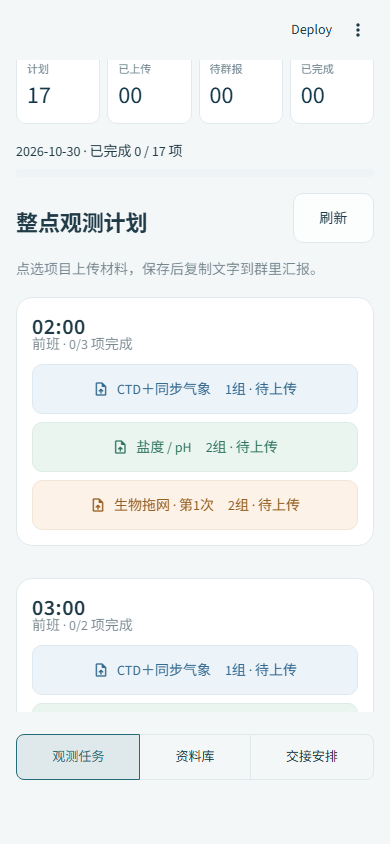
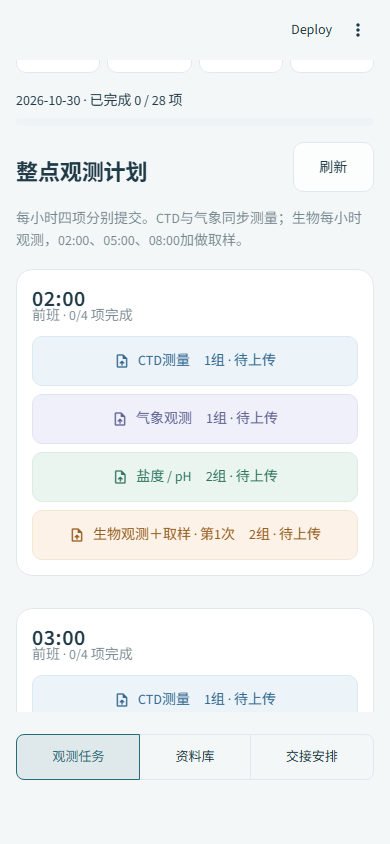
Separate hourly CTD and weather uploads and add hourly biology observations

diff --git a/assets/style.css b/assets/style.css
@@ -22,6 +22,7 @@
 [class*="st-key-task_"] button{min-height:48px;justify-content:flex-start;padding:11px 12px;border-radius:10px;}
 [class*="st-key-task_"] button p{white-space:normal!important;text-overflow:clip!important;overflow-wrap:anywhere;line-height:1.5;text-align:left;font-size:14px;}
 [class*="st-key-task_ctd_"] button{background:#edf4f9;color:#356a90;border-color:#dce9f2;}
+[class*="st-key-task_weather_"] button{background:#eff0fa;color:#5f6492;border-color:#e1e3f2;}
 [class*="st-key-task_water_"] button{background:#ebf5f0;color:#2d735f;border-color:#dcece4;}
 [class*="st-key-task_trawl_"] button{background:#fcf2e7;color:#966023;border-color:#f4e6d6;}
 [class*="st-key-task_"] button:hover{filter:brightness(.97);border-color:currentColor;}

diff --git a/streamlit_app.py b/streamlit_app.py
@@ -83,13 +83,19 @@ def upload_dialog(task_id, observation_date):
         c1, c2 = st.columns(2)
         actual = c1.time_input("实际完成时间", value=time(task.hour), step=60)
         station = c2.text_input("站位 / 样品编号（选填）", max_chars=120)
-        if task.project == "ctd":
-            st.caption("CTD与气象同步测量，两类材料都需要提交。合并文件可分别选择同一份。")
-            ctd = st.file_uploader("CTD原始数据与记录", accept_multiple_files=True, max_upload_size=100, key=f"ctd_files_{nonce}")
-            weather = st.file_uploader("同步气象数据与记录", accept_multiple_files=True, max_upload_size=100, key=f"weather_files_{nonce}")
-            uploads = [(file, "ctd") for file in ctd] + [(file, "weather") for file in weather]
+        if task.project in {"ctd", "weather"}:
+            st.caption("CTD与气象在同一整点同步测量，材料通过各自入口分别提交。")
+            label = "CTD原始数据与记录" if task.project == "ctd" else "气象观测数据与记录"
+            uploads = [(file, task.project) for file in st.file_uploader(label, accept_multiple_files=True, max_upload_size=100, key=f"{task.project}_files_{nonce}")]
         else:
-            label = "盐度 / pH测量数据与记录" if task.project == "water" else f"第{task.round}次拖网数据、样品记录与照片"
+            if task.project == "water":
+                label = "盐度 / pH测量数据与记录"
+            elif task.requires_sampling:
+                st.caption(f"本时刻需要生物观测和第{task.round}次拖网取样，完成后合并为本小时的一次提交。")
+                label = "生物观测、拖网取样记录与照片"
+            else:
+                st.caption("本时刻仅做生物观测，无需取样；仍需提交本小时的观测材料。")
+                label = "本小时生物观测记录与照片"
             uploads = [(file, "data") for file in st.file_uploader(label, accept_multiple_files=True, max_upload_size=100, key=f"data_files_{nonce}")]
         notes = st.text_area("备注（选填）", max_chars=2000, placeholder="异常情况、样品说明或需要交接的事项")
         st.caption("支持仪器原始文件、表格、文档、照片和压缩包。每次最多20个，单个100MB，总计250MB。")
@@ -125,7 +131,7 @@ st.html(f"""<section class="hero" style="{photo_style}">
     <div class="eyebrow">DONG FANG HONG 2 &nbsp; / &nbsp; FIELD OBSERVATIONS</div>
     <h1>同舟探海，向海求知。</h1>
     <p>D海研学队 · 东方红2观测协作站</p>
-    <div class="hero-tags"><span>02:00 — 08:00</span><span>4个小组</span><span>17项作业</span></div>
+    <div class="hero-tags"><span>02:00 — 08:00</span><span>4个小组</span><span>{len(TASKS)}项作业</span></div>
     </section>""")
 
 with st.container(key="filters"):
@@ -163,7 +169,7 @@ if view == "观测任务":
         title.subheader("整点观测计划")
         if refresh.button("刷新", key="refresh_progress", width="stretch", wrap=True):
             st.rerun()
-    st.caption("点选项目上传材料，保存后复制文字到群里汇报。")
+    st.caption("每小时四项分别提交。CTD与气象同步测量；生物每小时观测，02:00、05:00、08:00加做取样。")
     hours = sorted({task.hour for task in tasks})
     with st.container(key="plan"):
         for offset in range(0, len(hours), 3):
@@ -177,7 +183,8 @@ if view == "观测任务":
                     for task in hour_tasks:
                         status = task_status(latest.get(task.id))
                         icon = {"待上传": ":material/upload_file:", "待群报": ":material/chat_bubble:", "已完成": ":material/check_circle:"}[status]
-                        title = {"ctd": "CTD＋同步气象", "water": "盐度 / pH", "trawl": f"生物拖网 · 第{task.round}次"}[task.project]
+                        biology_title = f"生物观测＋取样 · 第{task.round}次" if task.requires_sampling else "生物观测（不取样）"
+                        title = {"ctd": "CTD测量", "weather": "气象观测", "water": "盐度 / pH", "trawl": biology_title}[task.project]
                         st.button(f"{title}　{task.group}组 · {status}", key=f"task_{task.id}", icon=icon,
                             width="stretch", wrap=True, on_click=open_task, args=(task.id,))
     st.caption("05:20—05:30交接：1组→3组，2组→4组。08:00完成最后一轮测量和第三次拖网。")
@@ -247,7 +254,7 @@ else:
             st.markdown("、".join(info["members"]))
     st.info("05:20开始交接，05:30交接完成。1组交给3组；2组交给4组。05:00任务由前班完成，06:00起由后班负责。", icon=":material/swap_horiz:")
     st.markdown("**交接内容：** 仪器状态、材料保存、样品编号、异常情况和未完成事项。")
-    st.caption("频次：CTD＋同步气象7轮；盐度/pH7轮；生物拖网02:00、05:00、08:00各1次。")
+    st.caption("CTD、气象、盐度/pH、生物观测各7轮，均每小时分别提交。生物拖网取样在02:00、05:00、08:00，共3次。")
 
 with st.expander("材料保存位置"):
     st.caption(store.storage_label)

diff --git a/tests/test_workflow.py b/tests/test_workflow.py
@@ -28,9 +28,12 @@ def submit(store, task_id="water_02", **changes):
 
 
 def test_confirmed_schedule():
-    assert len(TASKS) == 17
-    assert len({t.id for t in TASKS}) == 17
-    assert [t.hour for t in TASKS if t.project == "trawl"] == [2, 5, 8]
+    assert len(TASKS) == 28
+    assert len({t.id for t in TASKS}) == 28
+    assert all(len([t for t in TASKS if t.project == project]) == 7 for project in ("ctd", "weather", "water", "trawl"))
+    assert [t.hour for t in TASKS if t.requires_sampling] == [2, 5, 8]
+    assert [t.round for t in TASKS if t.project == "trawl"] == [1, 0, 0, 2, 0, 0, 3]
+    assert all(TASK_BY_ID[f"weather_{h:02}"].group == TASK_BY_ID[f"ctd_{h:02}"].group for h in range(2, 9))
     assert [(TASK_BY_ID[f"ctd_{h:02}"].group, TASK_BY_ID[f"water_{h:02}"].group) for h in range(2, 9)] == [(1, 2)] * 4 + [(3, 4)] * 3
     assert sum(len(group["members"]) for group in GROUPS.values()) == 24
     assert all(t.hour not in (5.2, 5.3) for t in TASKS)
@@ -48,12 +51,24 @@ def test_upload_survives_new_connection_and_report_is_separate(store):
     assert store.latest("2026-10-31") == {}
 
 
-def test_ctd_requires_both_synchronous_materials(store):
-    with pytest.raises(ValueError, match="同时上传"):
-        submit(store, "ctd_02", files=[("cast.cnv", b"CTD", "ctd")])
+def test_ctd_and_weather_are_independent_submissions(store):
+    with pytest.raises(ValueError, match="单独"):
+        submit(store, "ctd_02", files=[("cast.cnv", b"CTD", "ctd"), ("气象.csv", b"weather", "weather")])
     assert store.list_records("2026-10-30") == []
-    row = submit(store, "ctd_02", files=[("cast.cnv", b"CTD", "ctd"), ("气象.csv", b"weather", "weather")])
-    assert len(row["files"]) == 2
+    ctd = submit(store, "ctd_02", files=[("cast.cnv", b"CTD", "ctd")])
+    assert set(store.latest("2026-10-30")) == {"ctd_02"}
+    weather = submit(store, "weather_02", files=[("气象.csv", b"weather", "weather")])
+    store.mark_reported(ctd["id"], "马刚")
+    assert task_status(store.get(ctd["id"])) == "已完成"
+    assert task_status(store.get(weather["id"])) == "待群报"
+    assert store.read_file(weather["files"][0]) == b"weather"
+
+
+def test_biology_observation_without_sampling_can_be_saved(store):
+    row = submit(store, "trawl_03", files=[("生物观测.txt", b"hourly observation", "data")])
+    assert "不取样" in report_text(row)
+    assert "第0次" not in report_text(row)
+    assert store.latest("2026-10-30")["trawl_03"]["id"] == row["id"]
 
 
 @pytest.mark.parametrize("files", [[], [("empty.csv", b"", "data")]])
@@ -119,13 +134,13 @@ def test_dashboard_filter_and_upload_form(tmp_path, monkeypatch):
     monkeypatch.setenv("MARINE_DATA_DIR", str(tmp_path / "ui"))
     app = AppTest.from_file(str(Path(__file__).parents[1] / "streamlit_app.py"), default_timeout=20).run()
     assert not app.exception
-    assert app.metric[0].value == "17"
+    assert app.metric[0].value == "28"
     assert any('class="intro-screen"' in item.value for item in app.html)
-    assert len([button for button in app.button if button.key and button.key.startswith("task_")]) == 17
+    assert len([button for button in app.button if button.key and button.key.startswith("task_")]) == 28
     app.selectbox(key="group_filter").select(4).run()
     assert not app.exception
     assert not any('class="intro-screen"' in item.value for item in app.html)
-    assert app.metric[0].value == "04"
+    assert app.metric[0].value == "06"
     app.button(key="task_water_06").click().run()
     assert not app.exception
     assert len(app.get("file_uploader")) == 1
@@ -152,3 +167,21 @@ def test_library_and_report_confirmation(tmp_path, monkeypatch):
     assert not app.exception
     assert app.metric[3].value == "01"
     assert store.get(row["id"])["reported_at"]
+
+
+@pytest.mark.parametrize("task_id,expected_label", [
+    ("trawl_03", "本小时生物观测记录与照片"),
+    ("trawl_05", "生物观测、拖网取样记录与照片"),
+    ("ctd_03", "CTD原始数据与记录"),
+    ("weather_03", "气象观测数据与记录"),
+])
+def test_hourly_upload_forms_match_their_own_work(task_id, expected_label, tmp_path, monkeypatch):
+    from streamlit.testing.v1 import AppTest
+    monkeypatch.setenv("MARINE_STORAGE", "local")
+    monkeypatch.setenv("MARINE_DATA_DIR", str(tmp_path / "ui"))
+    app = AppTest.from_file(str(Path(__file__).parents[1] / "streamlit_app.py"), default_timeout=20).run()
+    app.button(key=f"task_{task_id}").click().run()
+    assert not app.exception
+    uploaders = app.get("file_uploader")
+    assert len(uploaders) == 1
+    assert uploaders[0].proto.label == expected_label

diff --git a/observations.py b/observations.py
@@ -1,15 +1,15 @@
-"""The confirmed roster and 17 observation tasks. No generated observations."""
+"""Confirmed roster and hourly observation tasks. No generated observations."""
 from dataclasses import dataclass
 from datetime import datetime, timezone, timedelta
 
 CHINA_TZ = timezone(timedelta(hours=8))
 GROUPS = {
-    1: {"leader": "马刚", "members": ["马刚", "潘高", "李朝廷", "李文轩", "吕文哲", "石煜平"], "shift": "02:00—05:30", "work": "CTD＋同步气象"},
-    3: {"leader": "赵一昊", "members": ["赵一昊", "刘聪", "王鹏瑞", "陈冠润", "姜震", "胡盛宇"], "shift": "05:20—08:00", "work": "CTD＋同步气象"},
-    2: {"leader": "孙嘉远", "members": ["孙嘉远", "黄一帆", "余怡晗", "李瑞哲", "郭堃晖", "王巍桥"], "shift": "02:00—05:30", "work": "海水盐度/pH＋海洋生物拖网"},
-    4: {"leader": "李彦吉", "members": ["李彦吉", "李炼芳", "杨宁华", "程凯鹭", "贾浩林", "李俊霆"], "shift": "05:20—08:00", "work": "海水盐度/pH＋海洋生物拖网"},
+    1: {"leader": "马刚", "members": ["马刚", "潘高", "李朝廷", "李文轩", "吕文哲", "石煜平"], "shift": "02:00—05:30", "work": "CTD测量＋同步气象观测（分别提交）"},
+    3: {"leader": "赵一昊", "members": ["赵一昊", "刘聪", "王鹏瑞", "陈冠润", "姜震", "胡盛宇"], "shift": "05:20—08:00", "work": "CTD测量＋同步气象观测（分别提交）"},
+    2: {"leader": "孙嘉远", "members": ["孙嘉远", "黄一帆", "余怡晗", "李瑞哲", "郭堃晖", "王巍桥"], "shift": "02:00—05:30", "work": "海水盐度/pH＋生物观测与取样"},
+    4: {"leader": "李彦吉", "members": ["李彦吉", "李炼芳", "杨宁华", "程凯鹭", "贾浩林", "李俊霆"], "shift": "05:20—08:00", "work": "海水盐度/pH＋生物观测与取样"},
 }
-PROJECTS = {"ctd": "CTD＋同步气象", "water": "海水盐度 / pH", "trawl": "海洋生物拖网"}
+PROJECTS = {"ctd": "CTD测量", "weather": "同步气象观测", "water": "海水盐度 / pH", "trawl": "海洋生物观测"}
 
 
 @dataclass(frozen=True)
@@ -25,9 +25,14 @@ class Task:
         return f"{self.hour:02d}:00"
 
     @property
+    def requires_sampling(self):
+        return self.project == "trawl" and self.round > 0
+
+    @property
     def title(self):
-        suffix = f" · 第 {self.round} 次" if self.round else ""
-        return PROJECTS[self.project] + suffix
+        if self.project == "trawl":
+            return f"海洋生物观测＋拖网取样 · 第{self.round}次取样" if self.requires_sampling else "海洋生物观测（不取样）"
+        return PROJECTS[self.project]
 
 
 TASKS = tuple(
@@ -35,8 +40,9 @@ TASKS = tuple(
     for hour in range(2, 9)
     for task in (
         Task(f"ctd_{hour:02}", hour, "ctd", 1 if hour <= 5 else 3),
+        Task(f"weather_{hour:02}", hour, "weather", 1 if hour <= 5 else 3),
         Task(f"water_{hour:02}", hour, "water", 2 if hour <= 5 else 4),
-        *([Task(f"trawl_{hour:02}", hour, "trawl", 2 if hour <= 5 else 4, {2: 1, 5: 2, 8: 3}[hour])] if hour in (2, 5, 8) else []),
+        Task(f"trawl_{hour:02}", hour, "trawl", 2 if hour <= 5 else 4, {2: 1, 5: 2, 8: 3}.get(hour, 0)),
     )
 )
 TASK_BY_ID = {task.id: task for task in TASKS}

diff --git a/tests/test_github_storage.py b/tests/test_github_storage.py
@@ -142,14 +142,25 @@ def test_remote_retry_is_idempotent_and_revisions_preserve_history(remote):
 
 def test_ctd_validation_and_readonly_mode_do_not_write(remote):
     store, api = remote
-    with pytest.raises(ValueError, match="同时上传"):
-        submit(store, "ctd_02", reporter="马刚", files=[("cast.cnv", b"CTD", "ctd")])
+    with pytest.raises(ValueError, match="单独"):
+        submit(store, "ctd_02", reporter="马刚", files=[("cast.cnv", b"CTD", "ctd"), ("weather.csv", b"weather", "weather")])
     assert api.head is None
     api.can_write = False
     readonly = GitHubStore("owner/data", client=api)
     with pytest.raises(ValueError, match="令牌"):
         submit(readonly)
     assert not api.blobs
+
+
+def test_github_saves_ctd_and_weather_in_separate_task_records(remote):
+    store, api = remote
+    ctd = submit(store, "ctd_03", reporter="马刚", files=[("cast.cnv", b"CTD", "ctd")])
+    assert set(store.latest("2026-10-30")) == {"ctd_03"}
+    weather = submit(store, "weather_03", reporter="马刚", files=[("weather.csv", b"weather", "weather")])
+    reopened = GitHubStore("owner/data", client=api)
+    assert set(reopened.latest("2026-10-30")) == {"ctd_03", "weather_03"}
+    assert len(reopened.get(ctd["id"])["files"]) == 1
+    assert reopened.read_file(reopened.get(weather["id"])["files"][0]) == b"weather"
 
 
 def test_checksum_detects_damaged_remote_material(remote):

diff --git a/storage.py b/storage.py
@@ -41,9 +41,11 @@ def validate_submission(observation_date, task_id, reporter, actual_time, statio
         total += len(content)
     if total > MAX_SUBMISSION_BYTES:
         raise ValueError("本次材料总大小超过250MB，请分批整理后重新提交。")
-    if task.project == "ctd" and categories != {"ctd", "weather"}:
-        raise ValueError("请同时上传CTD材料和同步气象材料。")
-    if task.project != "ctd" and categories != {"data"}:
+    if task.project == "ctd" and categories != {"ctd"}:
+        raise ValueError("CTD材料请单独提交；气象材料请在同一时刻的气象入口上传。")
+    if task.project == "weather" and categories != {"weather"}:
+        raise ValueError("气象材料请单独提交；CTD材料请在同一时刻的CTD入口上传。")
+    if task.project not in {"ctd", "weather"} and categories != {"data"}:
         raise ValueError("材料分类与当前任务不符。")
     return str(uuid.UUID(submission_id)) if submission_id else str(uuid.uuid4())
 

diff --git a/README.md b/README.md
@@ -12,17 +12,17 @@
 
 ## 作业安排
 
-| 时刻 | CTD＋同步气象 | 海水盐度 / pH | 海洋生物拖网 |
-| --- | --- | --- | --- |
-| 02:00 | 1组 | 2组 | 2组 · 第1次 |
-| 03:00 | 1组 | 2组 | — |
-| 04:00 | 1组 | 2组 | — |
-| 05:00 | 1组 | 2组 | 2组 · 第2次 |
-| 06:00 | 3组 | 4组 | — |
-| 07:00 | 3组 | 4组 | — |
-| 08:00 | 3组 | 4组 | 4组 · 第3次 |
+| 时刻 | CTD | 同步气象 | 海水盐度 / pH | 海洋生物观测与取样 |
+| --- | --- | --- | --- | --- |
+| 02:00 | 1组 | 1组 | 2组 | 2组 · 观测＋第1次取样 |
+| 03:00 | 1组 | 1组 | 2组 | 2组 · 仅观测 |
+| 04:00 | 1组 | 1组 | 2组 | 2组 · 仅观测 |
+| 05:00 | 1组 | 1组 | 2组 | 2组 · 观测＋第2次取样 |
+| 06:00 | 3组 | 3组 | 4组 | 4组 · 仅观测 |
+| 07:00 | 3组 | 3组 | 4组 | 4组 · 仅观测 |
+| 08:00 | 3组 | 3组 | 4组 | 4组 · 观测＋第3次取样 |
 
-05:20—05:30仅交接：1组→3组，2组→4组。前班02:00—05:30，后班05:20—08:00。共17项提交任务；CTD和气象作为一项同步作业，分别上传两类材料。
+05:20—05:30仅交接：1组→3组，2组→4组。前班02:00—05:30，后班05:20—08:00。每个整点有CTD、气象、盐度/pH、生物观测4项独立提交，共28项。CTD与气象同步测量、分别上传和确认群汇报；海洋生物每小时观测并提交，02:00、05:00、08:00加做拖网取样，与对应时刻的生物观测一并提交。
 
 ## 使用流程
 
@@ -31,7 +31,7 @@
 3. 材料保存成功后，复制生成的群汇报文字并发到工作群。
 4. 点击“我已在群里汇报，确认完成”，任务才标为已完成。
 
-每次最多20个文件，单个100MB，合计250MB。CTD任务必须同时有CTD和气象材料；空文件会被拒绝。文件按日期、任务和提交编号分别保存，同名文件不会相互覆盖。重新提交保留历史版本，进度以最新版本为准。系统只生成汇报文字，**不会自动向微信或其他群发消息**。
+每次最多20个文件，单个100MB，合计250MB。CTD入口只提交CTD材料，气象入口只提交气象材料，二者互不等待；空文件会被拒绝。生物任务每小时都需要提交材料，无取样的时刻提交观测记录和照片即可。文件按日期、任务和提交编号分别保存，同名文件不会相互覆盖。重新提交保留历史版本，进度以最新版本为准。系统只生成汇报文字，**不会自动向微信或其他群发消息**。
 
 资料库支持查看历史提交、下载原文件、打包单条提交和下载当天JSON清单。不同日期的任务和进度相互独立。
 
@@ -60,7 +60,7 @@ token = "这里替换成你的GitHub个人访问令牌"
 use_gh_cli = false
 ```
 
-保存后重启应用。网页侧栏显示“GitHub仓库保存”；上传成功后点击“打开GitHub数据分支”即可核对原始材料。没有配置令牌时，网站允许读取公开材料，禁用上传。
+保存后重启应用。展开页面下方“材料保存位置”可查看“GitHub仓库保存”，点击“打开GitHub数据分支”即可核对原始材料。没有配置令牌时，网站允许读取公开材料，禁用上传。
 
 模板在`.streamlit/secrets.example.toml`。实际令牌只能保存在Streamlit Secrets、环境变量`MARINE_GITHUB_TOKEN`或本机被Git忽略的`.streamlit/secrets.toml`中，不能提交到源码仓库。
 
